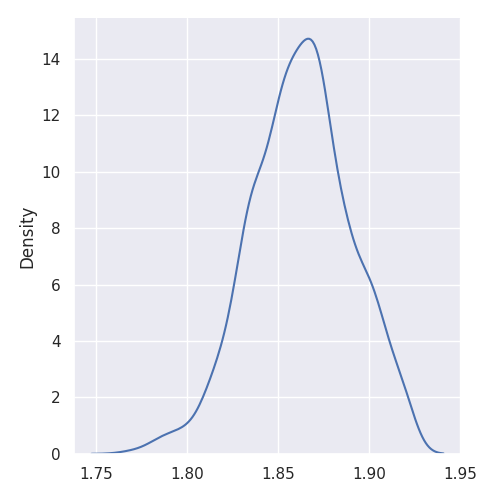
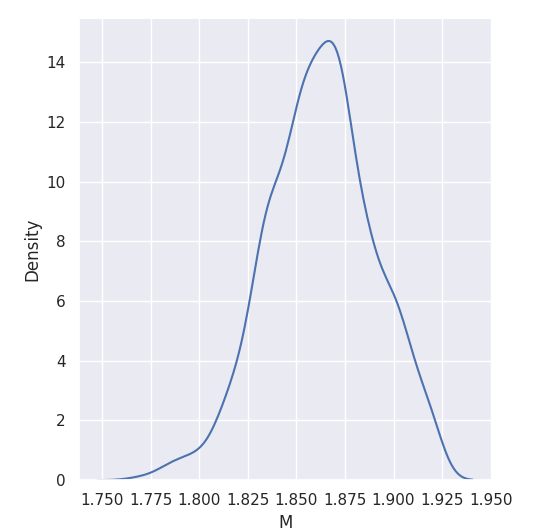
labels

diff --git a/src/pointwise M calculation analysis.py b/src/pointwise M calculation analysis.py
@@ -18,7 +18,10 @@ for i in range(n):
     _, _, D = meb.geometry.diameter_approx(data[i], data, return_diameter=True)
     D_list[i] = D
 
+print(np.mean(D_list))
+print(np.var(D_list))
 
 sns.set_theme()
 sns.displot(x=D_list, kind="kde")
+plt.xlabel("M")
 plt.show()
